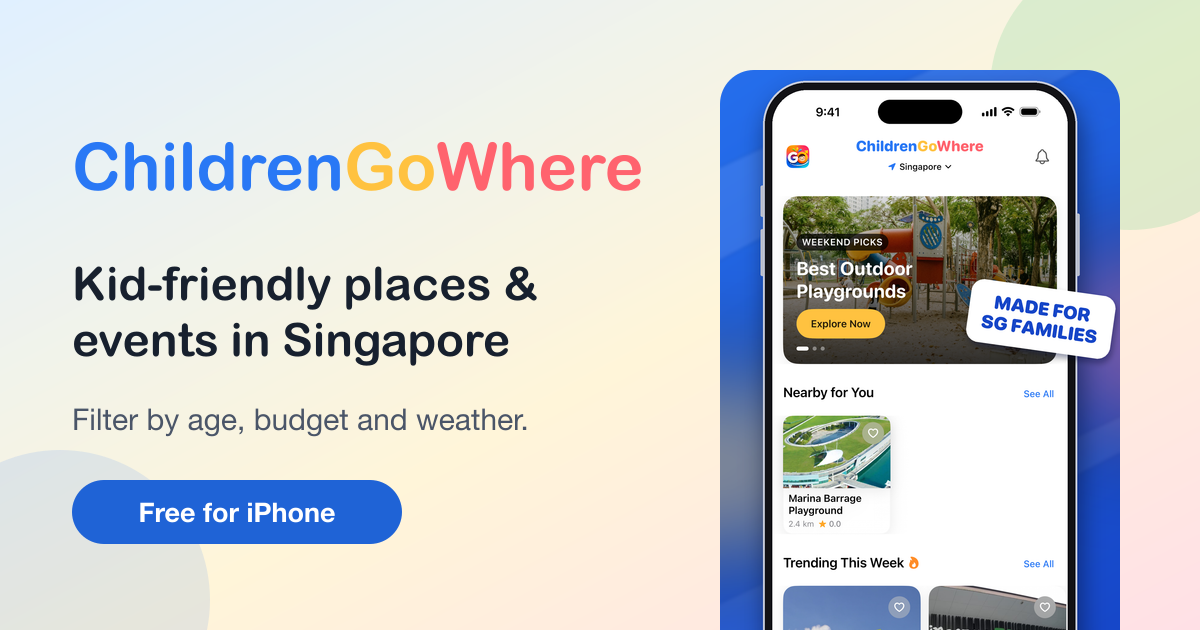
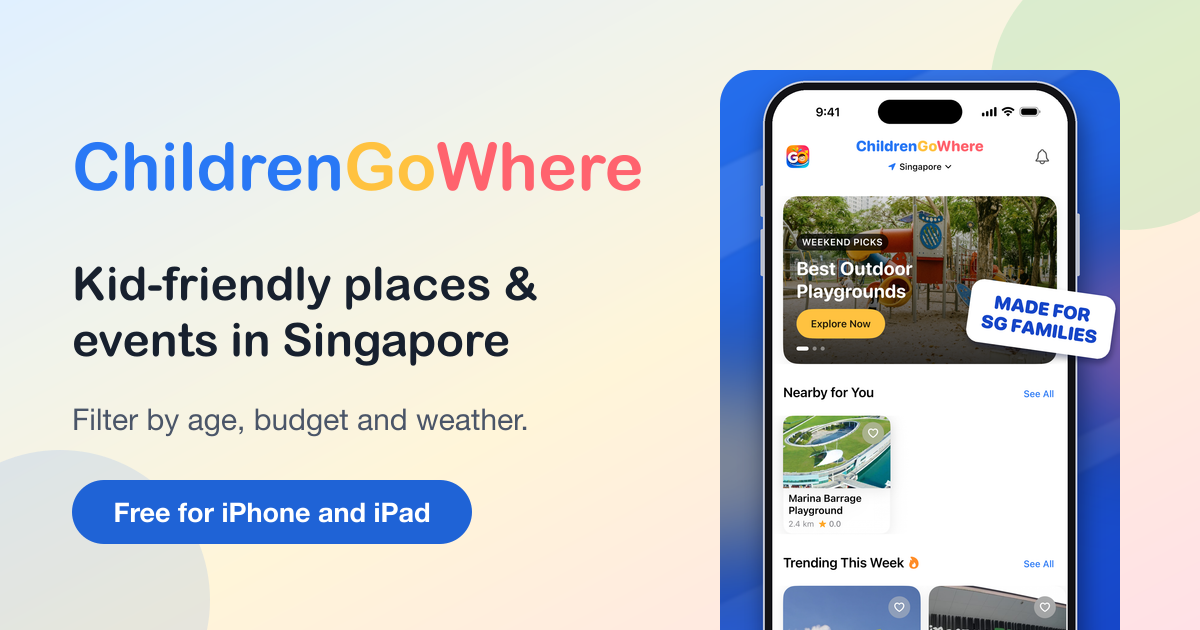
Link to the live App Store listing and mention iPad support
- Set appStoreUrl and appStoreId (id6816628445) so every download button,
  the Smart App Banner and the structured data point at the published app;
  the "Coming soon" state and note no longer show.
- The app also runs on iPad: say "iPhone and iPad" in the description,
  Platform fact, FAQ, footer, sticky bar and share image, and use
  device-neutral wording for Settings and location.
- Hide the sticky bar's text on very narrow screens so the button fits.
- Bump Privacy Policy and Terms dates to 24 October 2026.

Changed region(s): [[0.0925, 0.754, 0.4008, 0.8746]]

diff --git a/src/terms/index.html b/src/terms/index.html
@@ -66,7 +66,7 @@ modified: cfg.termsUpdated
     </nav>
 
     <h2 id="agreement">1. Agreeing to these terms</h2>
-    <p>These terms apply to the ChildrenGoWhere iPhone app and to childrengowhere.com (together, the “Service”). By creating an account, continuing as a guest, ticking the agreement box, or otherwise using the Service, you agree to these terms and to our <a href="{{BASE}}/privacy/">Privacy Policy</a>. If you do not agree, please do not use the Service.</p>
+    <p>These terms apply to the ChildrenGoWhere iPhone and iPad app and to childrengowhere.com (together, the “Service”). By creating an account, continuing as a guest, ticking the agreement box, or otherwise using the Service, you agree to these terms and to our <a href="{{BASE}}/privacy/">Privacy Policy</a>. If you do not agree, please do not use the Service.</p>
     <p>The app is licensed to you through the Apple App Store. Unless we provide our own, the <a href="https://www.apple.com/legal/internet-services/itunes/dev/stdeula/" rel="noopener">Apple Licensed Application End User License Agreement</a> (the “Apple EULA”) governs your licence to use the app. These terms apply alongside it. If they conflict about your licence to the app, the Apple EULA prevails; otherwise these terms apply. Apple is not a party to these terms and is not responsible for the app, its content, support or maintenance.</p>
 
     <h2 id="who-can-use">2. Who can use ChildrenGoWhere</h2>
@@ -98,7 +98,7 @@ modified: cfg.termsUpdated
     <p>You are responsible for supervising your children, judging whether a place or activity is right for them, and following the venue’s rules and staff instructions. Safety and accessibility notes in the app are general and may not cover your family’s needs. Please do not use your phone while driving, and follow road and public transport rules when using directions. <strong>In an emergency in Singapore, call 999 (police) or 995 (ambulance and fire).</strong></p>
 
     <h2 id="permissions">7. Location, calendar and notifications</h2>
-    <p>These permissions are optional and you control them in iPhone Settings and in Me &gt; Privacy Settings. Location is used to show places near you and estimate travel time. The calendar permission lets the app add events that you choose, and it cannot read your existing events. Notifications are sent only according to your preferences. The app works without location, though distance-based features are limited. See the <a href="{{BASE}}/privacy/#location">Privacy Policy</a> for details.</p>
+    <p>These permissions are optional and you control them in your device’s Settings and in Me &gt; Privacy Settings. Location is used to show places near you and estimate travel time. The calendar permission lets the app add events that you choose, and it cannot read your existing events. Notifications are sent only according to your preferences. The app works without location, though distance-based features are limited. See the <a href="{{BASE}}/privacy/#location">Privacy Policy</a> for details.</p>
 
     <h2 id="your-content">8. Your content</h2>
     <p>“Your content” means what you add to the app, such as your profile details and photo, family member entries, favourites, collection names and preferences. It stays yours. We do not publish it, and the app has no public profiles. You give us a limited permission to store, process and display it, only as needed to run the Service for you, such as syncing it across your devices. That permission ends when you delete it or your account, subject to the retention details in the Privacy Policy.</p>

diff --git a/src/index.html b/src/index.html
@@ -1,6 +1,6 @@
 ---
 title: ChildrenGoWhere: Kid-Friendly Places & Events Singapore
-description: Find kid-friendly places and family events in Singapore. Filter by age, budget and weather, plan the visit and get directions. Free for iPhone.
+description: Find kid-friendly places and family events in Singapore. Filter by age, budget and weather, plan the visit and get directions. Free for iPhone and iPad.
 schema: org,website,app,webpage,faq
 preload: shot-01-phone
 bodyClass: is-landing
@@ -341,7 +341,7 @@ bodyClass: is-landing
 
       <h3>At a glance</h3>
       <dl class="glance">
-        <div><dt>Platform</dt><dd>iPhone, iOS 18 or later</dd></div>
+        <div><dt>Platform</dt><dd>iPhone and iPad, iOS 18 or later</dd></div>
         <div><dt>Built with</dt><dd>SwiftUI</dd></div>
         <div><dt>Backend</dt><dd>Firebase</dd></div>
         <div><dt>Market</dt><dd>Singapore</dd></div>
@@ -448,7 +448,7 @@ bodyClass: is-landing
       </details>
       <details class="faq-item">
         <summary>Does the app use my location?</summary>
-        <div class="faq-answer"><p>Only if you allow it. Location is used to show places near you and estimate travel time. You can switch it off at any time in Me &gt; Privacy Settings, or in your iPhone’s Settings.</p></div>
+        <div class="faq-answer"><p>Only if you allow it. Location is used to show places near you and estimate travel time. You can switch it off at any time in Me &gt; Privacy Settings, or in your device’s Settings.</p></div>
       </details>
       <details class="faq-item">
         <summary>Will it read my calendar?</summary>
@@ -456,7 +456,7 @@ bodyClass: is-landing
       </details>
       <details class="faq-item">
         <summary>What do I need to run it?</summary>
-        <div class="faq-answer"><p>An iPhone running iOS 18 or later.</p></div>
+        <div class="faq-answer"><p>An iPhone or iPad running iOS 18 or later.</p></div>
       </details>
       <details class="faq-item">
         <summary>How do I delete my account and data?</summary>
@@ -470,7 +470,7 @@ bodyClass: is-landing
   <div class="container">
     <div class="cta-band on-dark">
       <h2 id="download-title">Discover amazing places and activities your kids will love.</h2>
-      <p>Free for iPhone. No sign-up needed to start exploring.</p>
+      <p>Free for iPhone and iPad. No sign-up needed to start exploring.</p>
       {{> cta variant=light}}
       {{> cta-note}}
     </div>

diff --git a/src/support/index.html b/src/support/index.html
@@ -25,12 +25,12 @@ breadcrumb: Support
     <h2 id="report-a-problem">Report a problem</h2>
     <p>The more detail you can share, the faster we can help. Please include:</p>
     <ul class="checklist">
-      <li><strong>Your iPhone and iOS version</strong>Find it in Settings &gt; General &gt; About.</li>
+      <li><strong>Your iPhone or iPad model and iOS version</strong>Find it in Settings &gt; General &gt; About.</li>
       <li><strong>The app version</strong>Find it in Me &gt; Settings &gt; About ChildrenGoWhere.</li>
       <li><strong>What happened</strong>What you expected, and what you saw instead.</li>
       <li><strong>How to reproduce it</strong>The steps you took, and a screenshot if you can.</li>
     </ul>
-    <p><a class="btn btn--ghost btn--sm" href="mailto:{{cfg.contactEmail}}?subject=ChildrenGoWhere%20problem%20report&amp;body=iPhone%20model%3A%0AiOS%20version%3A%0AApp%20version%3A%0A%0AWhat%20happened%3A%0A%0ASteps%20to%20reproduce%3A%0A">Start a problem report</a></p>
+    <p><a class="btn btn--ghost btn--sm" href="mailto:{{cfg.contactEmail}}?subject=ChildrenGoWhere%20problem%20report&amp;body=Device%20model%3A%0AiOS%20version%3A%0AApp%20version%3A%0A%0AWhat%20happened%3A%0A%0ASteps%20to%20reproduce%3A%0A">Start a problem report</a></p>
   </div>
 
   <div class="prose">
@@ -47,7 +47,7 @@ breadcrumb: Support
     </details>
     <details class="faq-item">
       <summary>Why does the app ask for my location?</summary>
-      <div class="faq-answer"><p>Location is used to show places near you and estimate travel time. You can turn it off in Me &gt; Privacy Settings, or in your iPhone’s Settings. You can still browse without it and choose a location manually.</p></div>
+      <div class="faq-answer"><p>Location is used to show places near you and estimate travel time. You can turn it off in Me &gt; Privacy Settings, or in your device’s Settings. You can still browse without it and choose a location manually.</p></div>
     </details>
     <details class="faq-item">
       <summary>Do I need an account to use the app?</summary>

diff --git a/src/privacy/index.html b/src/privacy/index.html
@@ -55,7 +55,7 @@ modified: cfg.privacyUpdated
     </nav>
 
     <h2 id="who-we-are">1. Who we are</h2>
-    <p>ChildrenGoWhere (“we”, “us”) is an iPhone app and website for families in Singapore. If you have questions about this policy or your data, email <a href="mailto:{{cfg.contactEmail}}">{{cfg.contactEmail}}</a>.</p>
+    <p>ChildrenGoWhere (“we”, “us”) is an iPhone and iPad app and website for families in Singapore. If you have questions about this policy or your data, email <a href="mailto:{{cfg.contactEmail}}">{{cfg.contactEmail}}</a>.</p>
 
     <h2 id="what-we-collect">2. Information we collect</h2>
     <h3>Account information</h3>
@@ -97,7 +97,7 @@ modified: cfg.privacyUpdated
     </ul>
 
     <h2 id="location">4. Location</h2>
-    <p>If you allow location access, the app uses your iPhone’s location to show nearby places and estimate travel time. It asks for a single location fix when needed rather than tracking you continuously. You can turn this off with the Location Usage switch in Me &gt; Privacy Settings, or in iPhone Settings &gt; ChildrenGoWhere. Without location you can still browse and choose a location manually.</p>
+    <p>If you allow location access, the app uses your device’s location to show nearby places and estimate travel time. It asks for a single location fix when needed rather than tracking you continuously. You can turn this off with the Location Usage switch in Me &gt; Privacy Settings, or in your device’s Settings &gt; ChildrenGoWhere. Without location you can still browse and choose a location manually.</p>
 
     <h2 id="sharing">5. Who we share it with</h2>
     <p>We do not sell your personal information, and the app contains no advertising or third-party tracking SDKs. We use these service providers to run the app:</p>

diff --git a/src/partials/sticky-cta.html b/src/partials/sticky-cta.html
@@ -1,5 +1,5 @@
 <div class="sticky-cta" id="sticky-cta" role="region" aria-label="Get the app" hidden>
-  <p class="sticky-cta__text"><strong>ChildrenGoWhere</strong><span>Free for iPhone</span></p>
+  <p class="sticky-cta__text"><strong>ChildrenGoWhere</strong><span>Free for iPhone and iPad</span></p>
   {{> cta size=sm short=1}}
   <button type="button" class="icon-btn sticky-cta__close" aria-label="Dismiss this bar">
     <svg width="18" height="18" viewBox="0 0 24 24" fill="none" stroke="currentColor" stroke-width="2.4" stroke-linecap="round" aria-hidden="true" focusable="false"><path d="M6 6l12 12M18 6L6 18"/></svg>

diff --git a/src/assets/css/styles.css b/src/assets/css/styles.css
@@ -804,6 +804,11 @@ mark.hl {
 .sticky-cta .btn { flex: none; white-space: nowrap; padding: 0 16px; }
 .sticky-cta .btn__icon { display: none; }
 .sticky-cta__close { width: 44px; height: 44px; flex: none; }
+@media (max-width: 380px) {
+  .sticky-cta { padding-left: 10px; }
+  .sticky-cta__text { display: none; }
+  .sticky-cta .btn { flex: 1; }
+}
 @media (min-width: 1040px) { .sticky-cta { display: none !important; } }
 
 /* ---------- Inner pages (support / privacy / 404) ---------- */

diff --git a/src/partials/footer.html b/src/partials/footer.html
@@ -5,7 +5,7 @@
         {{> wordmark}}
       </a>
       <p class="site-footer__tagline">{{cfg.tagline}}</p>
-      <p class="site-footer__note">Free for iPhone. Made for families in Singapore.</p>
+      <p class="site-footer__note">Free for iPhone and iPad. Made for families in Singapore.</p>
     </div>
     <nav aria-label="Product">
       <h2 class="footer-title">Product</h2>

diff --git a/README.md b/README.md
@@ -111,7 +111,7 @@ Nothing below has been run for you. GitHub Pages on a free plan needs a public r
 ## Before you go live
 
 - [ ] Choose the repository name and, if wanted, the custom domain.
-- [ ] Fill in `appStoreUrl` and `appStoreId` when the app is approved.
+- [x] `appStoreUrl` and `appStoreId` are set (app live on the App Store since 22 Oct 2026).
 - [ ] Have the Privacy Policy and Terms of Service reviewed by a lawyer, and add the legal entity name if required. The open decisions are listed in the comment at the top of `src/terms/index.html`.
 - [ ] Point the iOS app's `AppLinks.termsOfService` at `<site url>/terms/` (it currently uses Apple's standard EULA).
 - [ ] Confirm the support response time, and make sure the `contactEmail` mailbox (currently `hello@childrengowhere.com`, on the domain's iCloud mail) is monitored. The address is in public HTML, so expect some spam.
